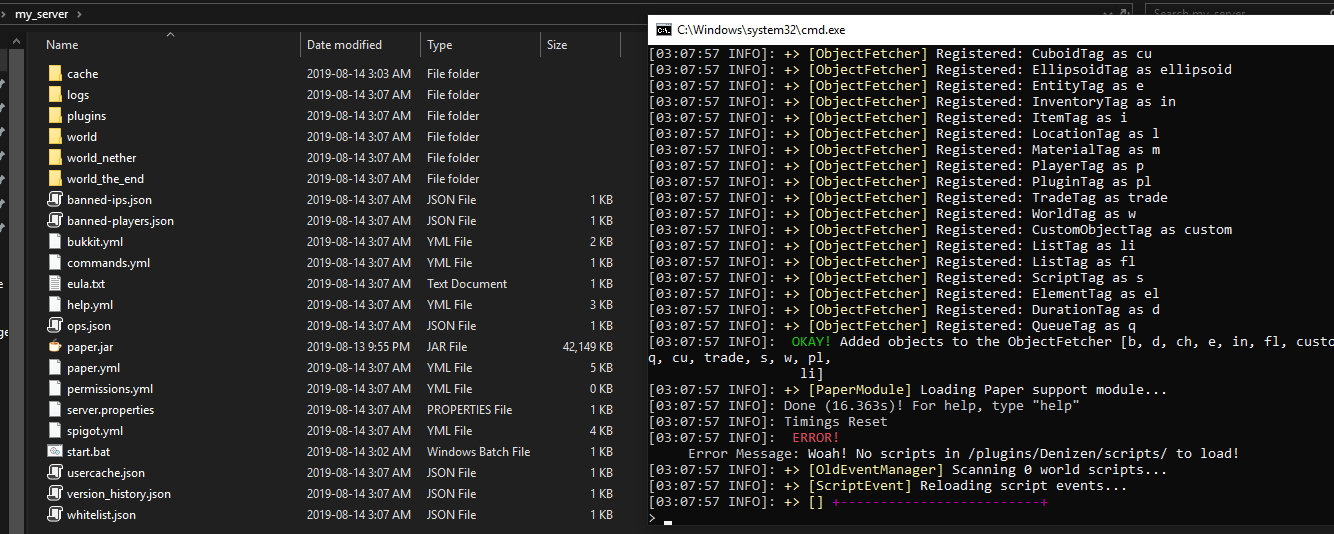
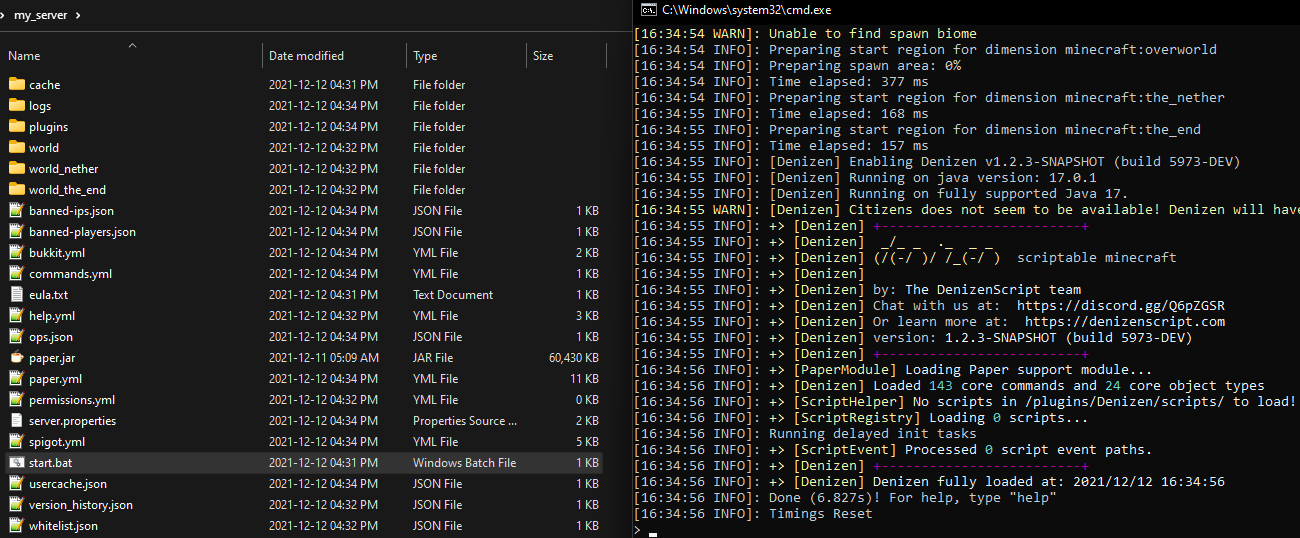
update some version references and a screenshot

diff --git a/source/guides/first-steps/local-test-server.md b/source/guides/first-steps/local-test-server.md
@@ -27,7 +27,7 @@ It's pretty simple! Let's go through the steps...
 
 **Fair warning** that this guide is focused on Windows PCs, as they are the most common (but will note differences for other OS's where applicable).
 
-- **Step 0: Install Java.** You might not already have Java installed on your PC - if not, you'll need to have it installed. You can download [OpenJDK 16 from here](https://adoptium.net/?variant=openjdk16). <span class="parens">(for Linux/Mac, just google how to download OpenJDK 16 for your specific OS/Distro)</span>. When installing, make sure to enable the options "Add to PATH" and "Set JAVA_HOME variable".
+- **Step 0: Install Java.** You might not already have Java installed on your PC - if not, you'll need to have it installed. You can download [OpenJDK 17 from here](https://adoptium.net/?variant=openjdk17). <span class="parens">(for Linux/Mac, just google how to download OpenJDK 17 for your specific OS/Distro)</span>. When installing, make sure to enable the options "Add to PATH" and "Set JAVA_HOME variable". Note that the correct Java version to install depends on your Minecraft server version. For Minecraft 1.18+ the preferred Java version is JDK 17.
 
 ![](images/javainstall.png)
 
@@ -41,7 +41,7 @@ Note also that many users like to rename the jar to `paper.jar` <span class="par
 
 ![](images/myserverfolder.png)
 
-- **Step 3: Make a launch script.** The simplest way to do this is to just open Notepad and create a file named `start.bat` (be sure to save as 'all files', not 'text documents'). In this file, put the following: `java -Xms1G -Xmx1G -jar paper.jar nogui` ... you can configure the specifics - the '1G' twice is how much RAM you want to give to the server <span class="parens">(`1G` means "One GigaByte of RAM", you can also type values like `2G` for 2 GigaBytes, `500M` for 500 MegaBytes, etc.)</span>, and 'paper.jar' is the name of the server jar file. <span class="parens">(On Linux or Mac, create a `start.sh` file and edit it with whatever your favorite text editor is. The command to include remains the same.)</span>
+- **Step 3: Make a launch script.** The simplest way to do this is to just open Notepad and create a file named `start.bat` (be sure to save as 'all files', not 'text documents'). In this file, put the following: `java -Xms1G -Xmx1G -jar paper.jar nogui` ... you can configure the specifics - the '1G' twice is how much RAM you want to give to the server <span class="parens">(`1G` means "One GigaByte of RAM", you can also type values like `2G` for 2 GigaBytes, `500M` for 500 MegaBytes, etc. If you change it, make sure to change both the 'Xms' and the 'Xmx' values.)</span>, and 'paper.jar' is the name of the server jar file. <span class="parens">(On Linux or Mac, create a `start.sh` file and edit it with whatever your favorite text editor is. The command to include remains the same.)</span>
 
 ![](images/startbat.png)
 

diff --git a/source/guides/non-denizen/resource-packs.md b/source/guides/non-denizen/resource-packs.md
@@ -12,6 +12,8 @@ This guide primarily, details how to correctly format your resource pack, and th
 
 ### Inside The Root Directory
 
+If you don't already have a resource pack: You can get to the `resourcepacks` directory by opening the Resource Packs menu in your Minecraft client and clicking on the "Open Pack Folder" button. Within there, you can create a new folder for your pack.
+
 Directory: `.minecraft/resourcepacks/MyResourcePack/`
 
 The main directory within your resource pack folder should contain both:
@@ -37,11 +39,11 @@ Here is what it looks like inside:
 ##### pack.mcmeta File Key: `pack_format`
 
 This is the indicator to Minecraft what version this pack is.
-- `1` indicates versions `1.6` - `1.8`.
-- `2` indicates versions `1.9` - `1.10`,
-- `3` indicates versions `1.11` - `1.12`,
-- `4` indicates versions `1.13` - `1.14`,
-- `5` indicates versions `1.15` - `1.16`.
+- `5` indicates version `1.15`.
+- `6` indicates version `1.16.5`,
+- `7` indicates version `1.17`,
+- `8` indicates version `1.18`
+- For more version options, refer to [This minecraft wiki page](https://minecraft.fandom.com/wiki/Tutorials/Creating_a_resource_pack#Formatting_pack.mcmeta)
 
 ##### pack.mcmeta File Key: `description`
 
@@ -250,7 +252,7 @@ Directory: `.minecraft/resourcepacks/MyResourcePack/assets/minecraft/sounds/`.
 The sound format Minecraft uses is `.ogg`.
 Free converting tools can be found online, one recommended option being [Audio-Online-Convert.com.](https://audio.online-convert.com/convert-to-ogg).
 For organization's sake, if you're adding new sounds, it is recommended that you place them in a folder named `Custom`. Minecraft's default resource organizes it's sounds by [category](https://hub.spigotmc.org/javadocs/bukkit/org/bukkit/SoundCategory.html).
-You can find Minecraft's default resource sound index here: `/.minecraft/assets/indexes/1.15.json`; where `1.15` is the versions we're using in this guide.
+You can find Minecraft's default resource sound index here: `.minecraft/assets/indexes/1.18.json`; where `1.18` is the Minecraft version to use.
 All of your sound files <span class="parens">('.ogg' files)</span> should be saved in this directory.
 
 ### Putting It Together: Using Denizen With Your New Pack

diff --git a/source/guides/background/download-denizen.md b/source/guides/background/download-denizen.md
@@ -12,7 +12,7 @@ Before you use Denizen at all, there is one basic requirement: You need to be ru
 
 That means a Spigot server or fork thereof (like Paper), as opposed to a vanilla server, a Forge server, or some other platform.
 
-What constitutes a "recent version" changes with time of course, but generally that means the current version of minecraft - but if you're one or two major versions behind, that's fine. Note that you must always be on the latest *minor* version though. Minecraft versions are of the format `1.major.minor`, so in `1.15.2`, `15` is major and `2` is minor. If `1.15.2` is the current latest version, then `1.15.2` is a good version, but `1.15.1` is unsupported, and `1.15` (implied `.0`) is also unsupported. `1.14.4` (ie, latest minor version of the previous major version) is also supported. Versions older than this are also supported sometimes. At time of writing, the supported versions are `1.15.2`, `1.14.4`, `1.13.2`, and `1.12.2`. Note that these versions are just examples, and this page will not be updated with new Minecraft releases. Check the Discord's news and changelog channels for information about current version support.
+What constitutes a "recent version" changes with time of course, but generally that means the current version of minecraft - but if you're one or two major versions behind, that's fine. Note that you must always be on the latest *minor* version though. Minecraft versions are of the format `1.major.minor`, so in `1.15.2`, `15` is major and `2` is minor. If `1.15.2` is the current latest version, then `1.15.2` is a good version, but `1.15.1` is unsupported, and `1.15` (implied `.0`) is also unsupported. `1.14.4` (ie, latest minor version of the previous major version) is also supported. Major versions older than this are also supported sometimes. At time of writing, the supported versions are `1.18.1`, `1.17.1`, `1.16.5`, `1.15.2`, and `1.14.4`. Note that these versions are just examples, and this page will not necessarily be updated with new Minecraft releases. Check the Discord's news and changelog channels for information about current version support.
 
 ### Chocolate Or Vanilla?
 
